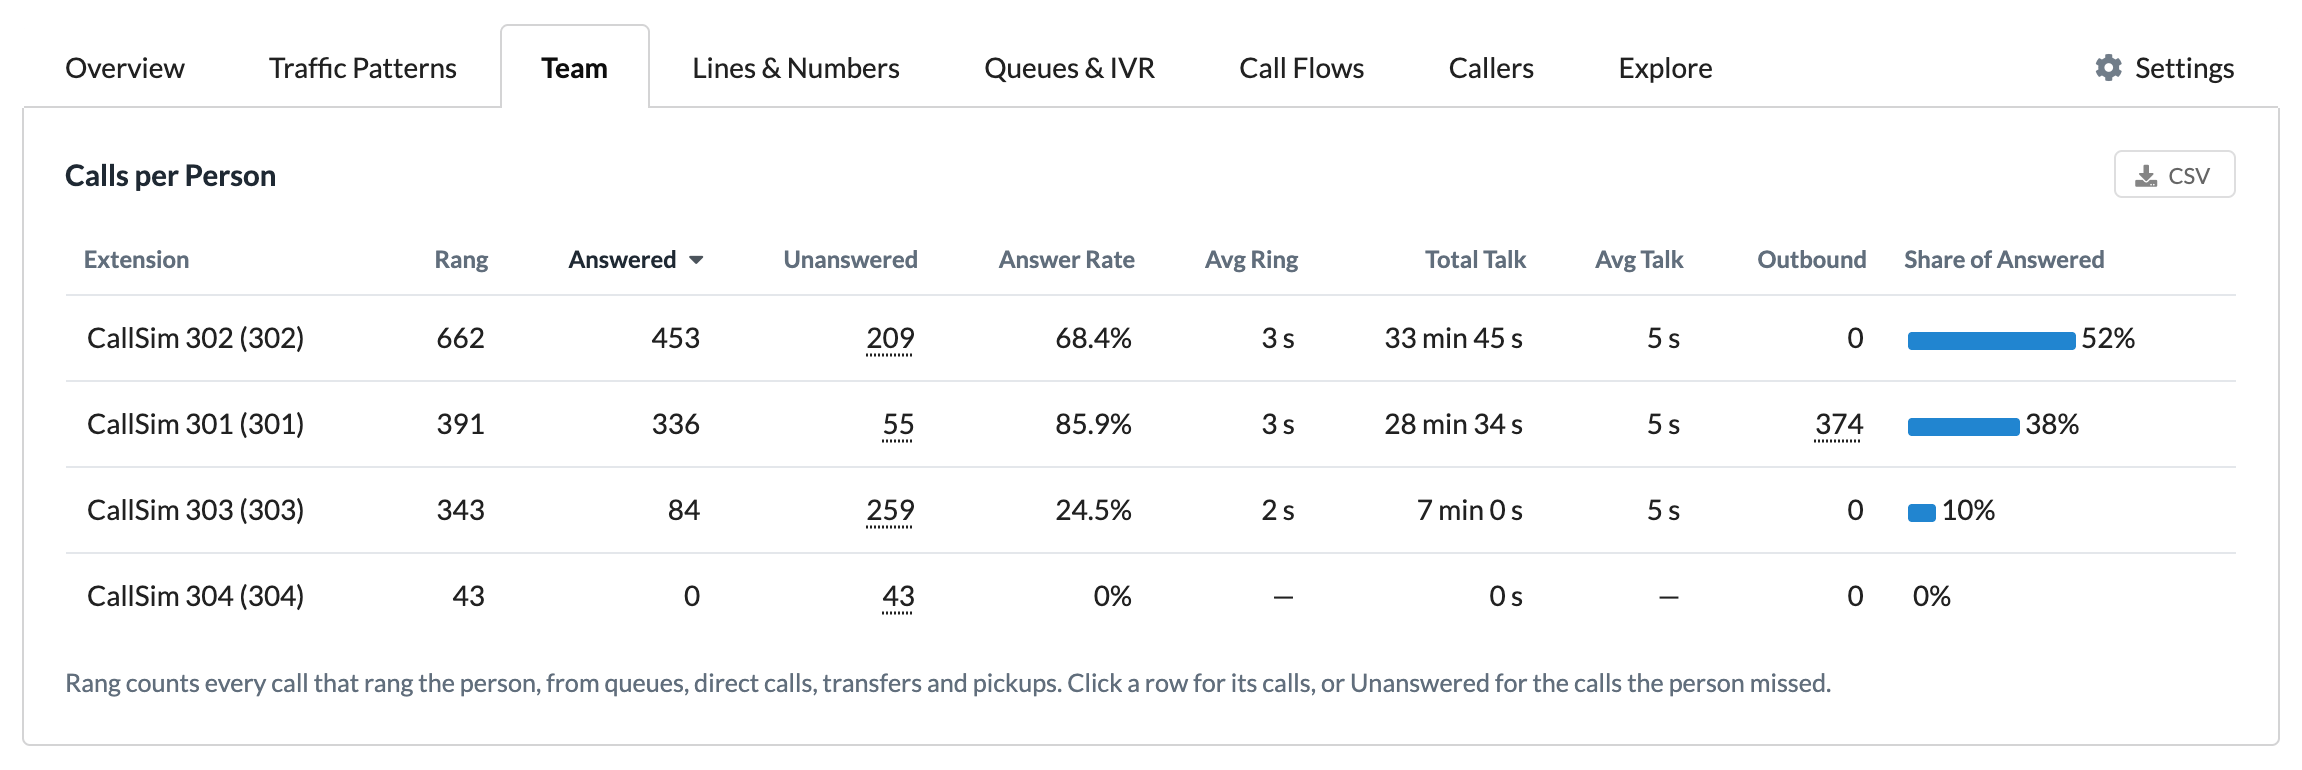
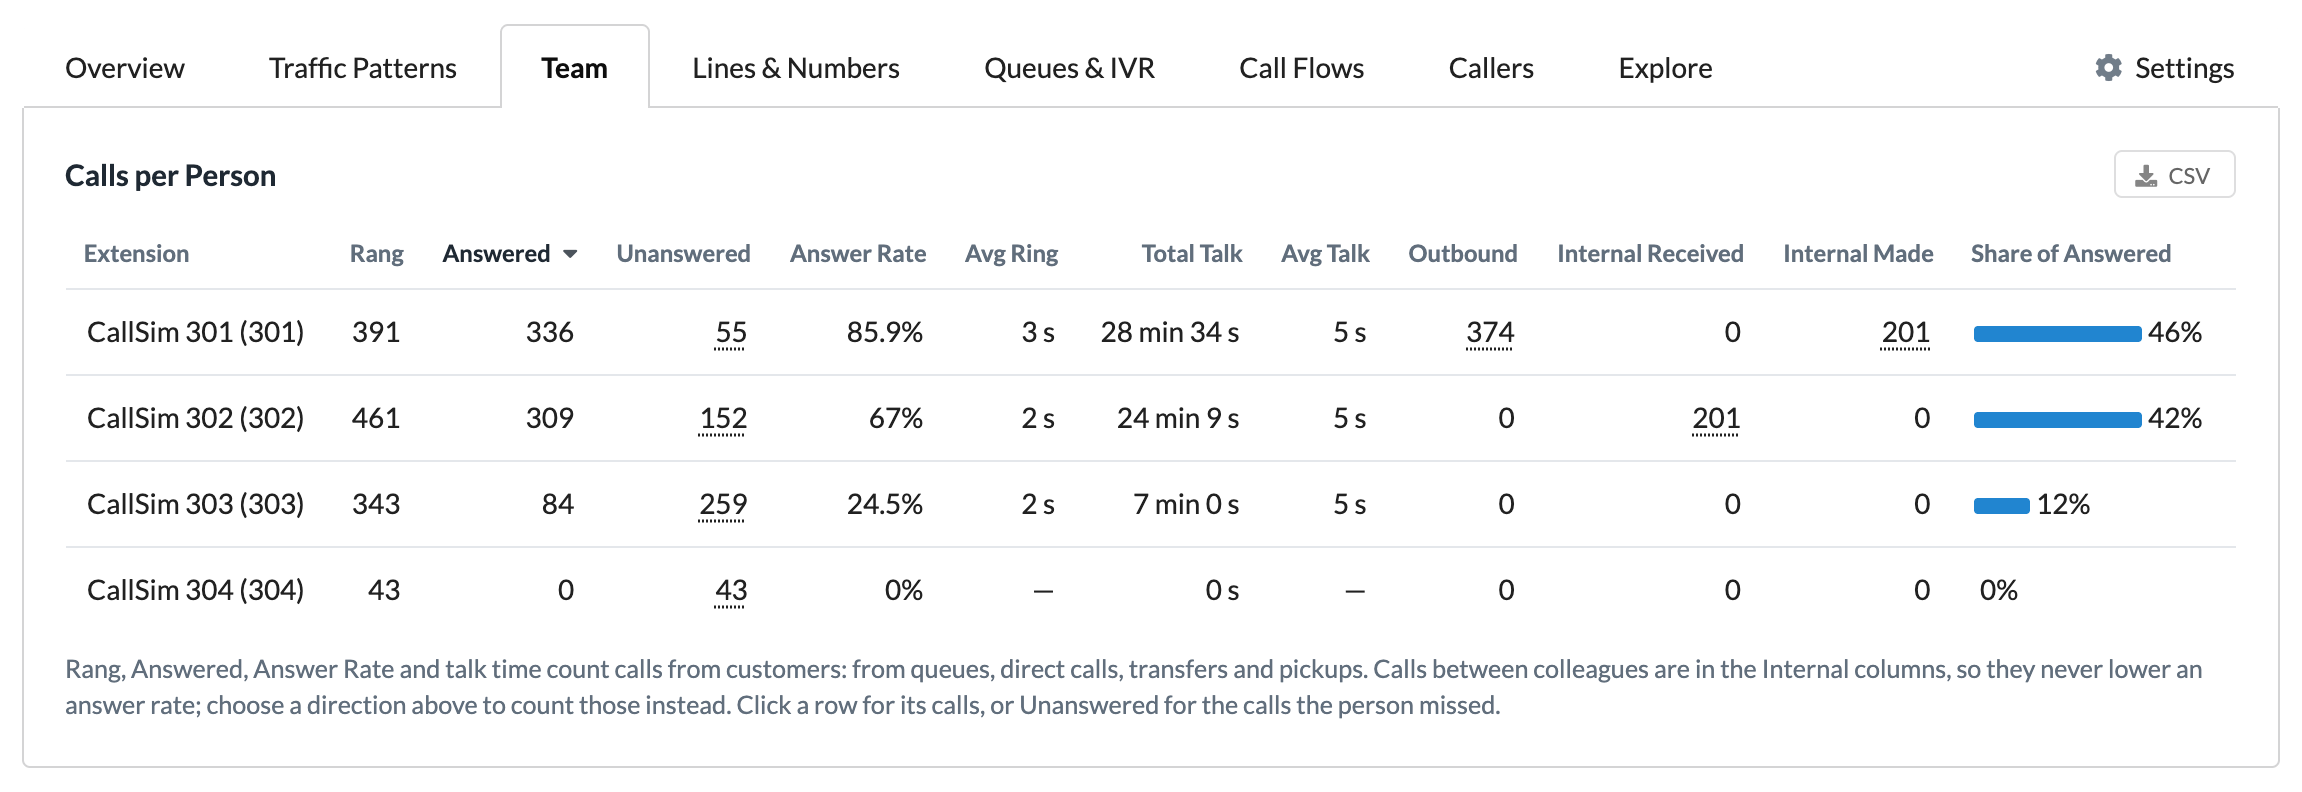
Prepare the changelog for 1.1.0
Moves the Unreleased entries into a 1.1.0 section dated 2026-11-08,
with a short summary for the release notes: calls between colleagues
are kept apart from customer calls (Team page, Avg Talk, Voicemail,
Calls by Outcome), the module moves to the Modules group in the
sidebar, and a dashboard link with a direction filter now applies it.
It is a minor version because figures people have already seen change
and the Team page gains two columns; the call index is unchanged, so
updating needs no rebuild.

The README's Team screenshot is retaken with the same setup, date range
and crop as the other screenshots, so it shows the Internal Received
and Internal Made columns, and its alt text mentions them.

diff --git a/CHANGELOG.md b/CHANGELOG.md
@@ -4,6 +4,10 @@ All notable changes to this module are listed here. Versions follow [Semantic Ve
 
 ## [Unreleased]
 
+## [1.1.0] - 2026-11-08
+
+Calls between colleagues are now kept apart from customer calls, so they no longer lower anyone's answer rate on the Team page, and the module moves to the **Modules** group in the sidebar. Some figures change (listed below), but the call index is unchanged, so updating needs no rebuild.
+
 Changed:
 
 - **Internal calls are kept apart from customer calls.** Calls between colleagues no longer count against anyone's figures; they still appear wherever you choose **Internal** in the direction filter. The call index is unchanged, so no rebuild is needed, but some figures change as follows:
@@ -22,7 +26,7 @@ Tests:
 
 Documentation:
 
-- **README:** the Team page description mentions the internal-call columns.
+- **README:** the Team page description mentions the internal-call columns, and its screenshot shows them.
 - **CDR fixtures README:** the note on the MikoPBX 2026.6.34 forwarding issue now links the upstream report, [mikopbx/Core#1381](https://github.com/mikopbx/Core/issues/1381), and says that the other system targets (End call, Play busy signal, Route to extension by DID) fail the same way.
 - **CDR fixtures README:** a second known issue: when a parked call times out, MikoPBX records its parking leg as 50 seconds long and starting 5 seconds early, while Asterisk held it for 45. Reported upstream as [mikopbx/Core#1400](https://github.com/mikopbx/Core/issues/1400). The module never counts parked time as talk time, and in the recorded scenario the early start changes no figure.
 

diff --git a/README.md b/README.md
@@ -44,7 +44,7 @@ The screenshots show a test PBX with simulated calls.
   </tr>
   <tr>
     <td width="50%" valign="top">
-      <a href="docs/screenshots/team.png"><img src="docs/screenshots/team.png" alt="Team: rings, answers, answer rate and talk time per person"></a>
+      <a href="docs/screenshots/team.png"><img src="docs/screenshots/team.png" alt="Team: rings, answers, answer rate and talk time per person, with internal calls received and made"></a>
       <br><b>Team.</b> Customer calls that rang each person, how many they answered, ring and talk time, and their share of answered calls, with calls between colleagues counted separately.
     </td>
     <td width="50%" valign="top">
